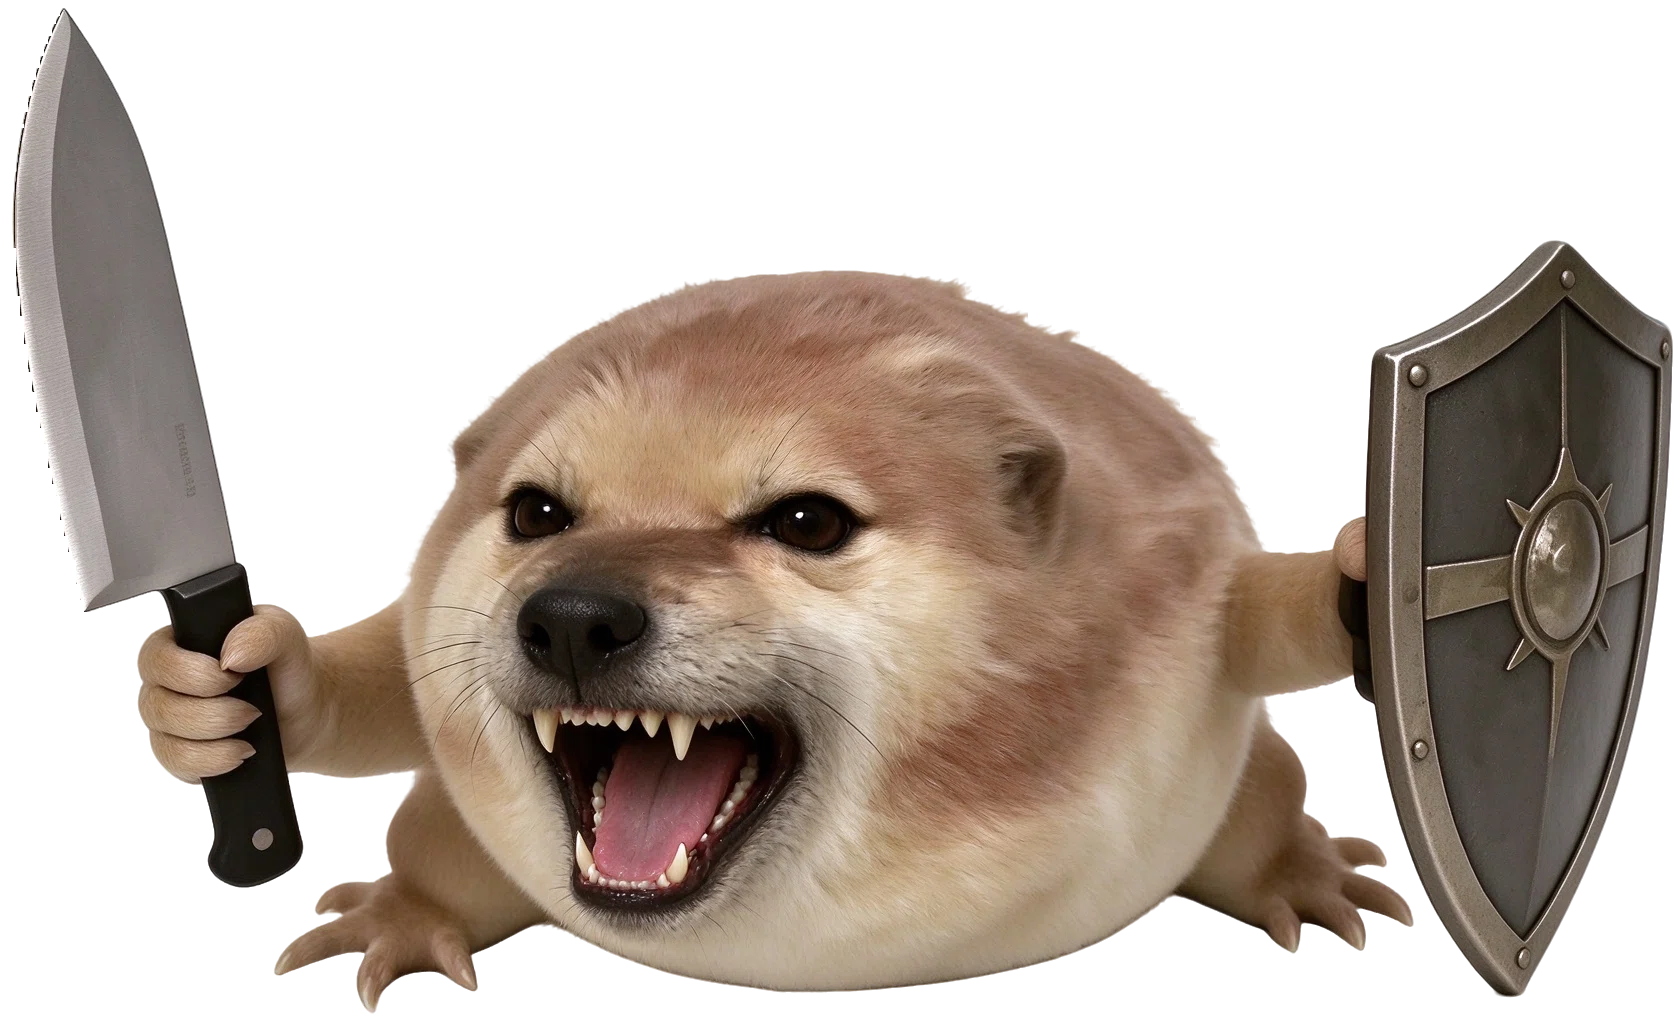
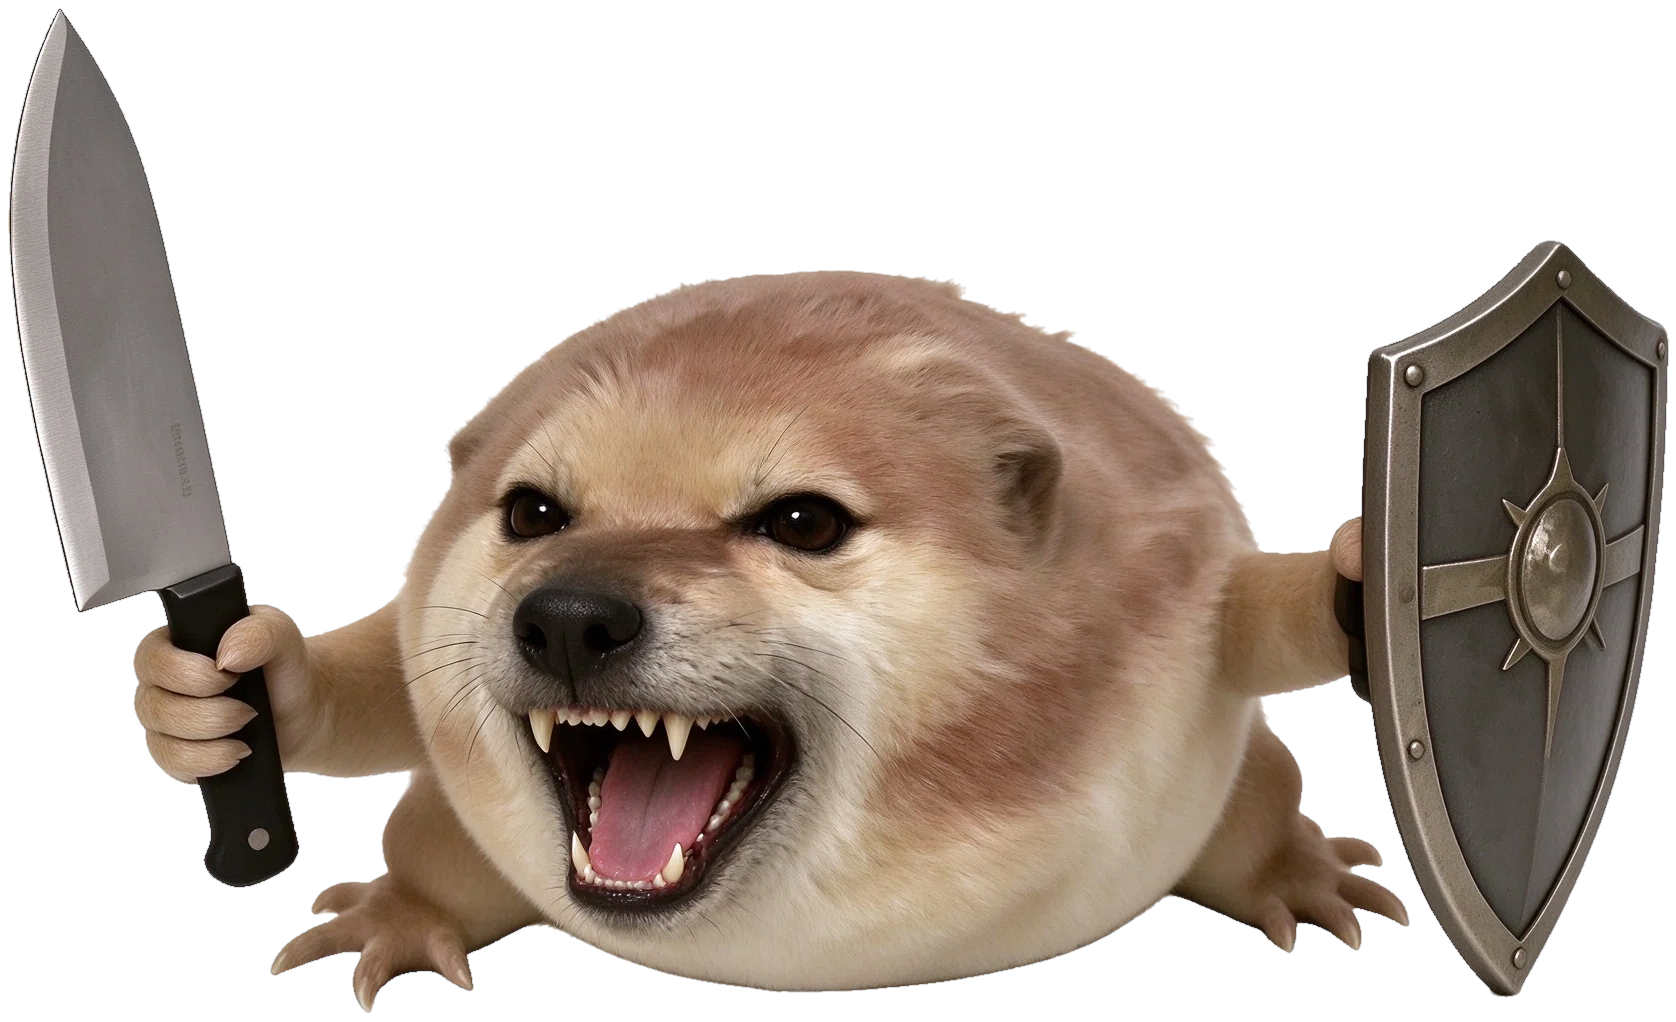
fix: 抠图改全分辨率+去白边；feat: 叫声期间底图左右摇晃，结束前 0.3s 归位

diff --git a/replica/js/hero-canvas.js b/replica/js/hero-canvas.js
@@ -215,6 +215,9 @@ export async function createHeroCanvas(canvas, cfg = {}, assets = {}) {
 
   let base, helmet, wire;
   let baseUrl = '';
+  // 左右摇晃：只作用于底图，结束前 300ms 归位
+  const shake = { rot: 0, active: false, start: 0, dur: 0, amp: 0.030, period: 760 };
+
   // 挤压/拉伸：只作用于底图，背景不受影响
   const squash = { x: 1, y: 1, active: false, start: 0, dur: 0 };
   const SQUASH_KEYS = [
@@ -314,7 +317,7 @@ export async function createHeroCanvas(canvas, cfg = {}, assets = {}) {
     gl.clear(gl.COLOR_BUFFER_BIT);
     gl.bindVertexArray(vao);
 
-    const drawLayer = (prog, texInfo, conf, frag, alpha = 1, sqY = 1, sqX = 1) => {
+    const drawLayer = (prog, texInfo, conf, frag, alpha = 1, sqY = 1, sqX = 1, rot = 0) => {
       gl.useProgram(prog);
       gl.enableVertexAttribArray(gl.getAttribLocation(prog, 'aPos'));
       gl.vertexAttribPointer(gl.getAttribLocation(prog, 'aPos'), 2, gl.FLOAT, false, 0, 0);
@@ -324,6 +327,7 @@ export async function createHeroCanvas(canvas, cfg = {}, assets = {}) {
       const sy = (wFrac * cw / (texInfo.w / texInfo.h)) / ch;
 
       gl.uniform2f(loc(prog, 'uScale'), sx * sqX, sy * sqY);
+      gl.uniform1f(loc(prog, 'uRot'), rot);
       // 统一标尺：x/y 都按画布宽度换算，改窗口大小时三层一起缩放，永不散位
       gl.uniform2f(loc(prog, 'uOffset'),
         ((conf.x ?? 0) * unitPx) / cw,
@@ -346,6 +350,20 @@ export async function createHeroCanvas(canvas, cfg = {}, assets = {}) {
     // width：以画布宽度为标尺（默认，构图随窗口等比缩放）
     // contain：以能放进窗口的最大 16:10 舞台为标尺
     const unitPx = (cfg.stage?.mode === 'contain') ? stageW : cw;
+
+    // 摇晃动画（仅底图）：最后 300ms 内幅度衰减到 0
+    if (shake.active) {
+      const el = performance.now() - shake.start;
+      if (el > shake.dur) {
+        shake.active = false;
+        shake.rot = 0;
+      } else {
+        const fade = Math.min(1, Math.max(0, (shake.dur - el) / 300));
+        shake.rot = Math.sin((el / shake.period) * Math.PI * 2) * shake.amp * fade;
+      }
+    } else if (shake.rot !== 0) {
+      shake.rot = 0;
+    }
 
     // 挤压动画（仅底图）
     if (squash.active) {
@@ -397,7 +415,7 @@ export async function createHeroCanvas(canvas, cfg = {}, assets = {}) {
       gl.drawArrays(gl.TRIANGLE_STRIP, 0, 4);
     }
 
-    drawLayer(progBase, base, layout.base || { w: 0.66, y: -0.16 }, null, opac.base ?? 1, squash.y, squash.x);
+    drawLayer(progBase, base, layout.base || { w: 0.66, y: -0.16 }, null, opac.base ?? 1, squash.y, squash.x, shake.rot);
 
     drawLayer(progHelmet, helmet, layout.helmet || { w: 0.3, y: 0.2 }, (p) => {
       gl.uniform2f(loc(p, 'uRes'), cw, ch);
@@ -457,6 +475,17 @@ export async function createHeroCanvas(canvas, cfg = {}, assets = {}) {
       squash.active = true;
       squash.start = performance.now();
       squash.dur = ms;
+    },
+    startShake(ms = 0, amp = 0.030) {
+      shake.active = true;
+      shake.start = performance.now();
+      shake.dur = ms;
+      shake.amp = amp;
+    },
+    stopShake() {
+      shake.active = false;
+      shake.rot = 0;
+      render();
     },
     stopSquash() {
       squash.active = false;

diff --git a/replica/js/main.js b/replica/js/main.js
@@ -399,6 +399,7 @@ function initBark() {
     setLayers(false);
     if (getHero()?.setBase) getHero().setBase(baseSrc);
     getHero()?.stopSquash?.();
+    getHero()?.stopShake?.();
   }
 
   function play(kind) {
@@ -410,6 +411,13 @@ function initBark() {
     document.body.classList.add(kind === 'bark' ? 'is-barking' : 'is-knife');
     setLayers(true);
     if (kind === 'bark' && getHero()?.setBase) getHero().setBase(barkSrc);
+    if (kind === 'bark') {
+      // 时长未知时先用兜底值，音频拿到 metadata 后再校正
+      const ms = cache.bark && isFinite(cache.bark.duration) && cache.bark.duration > 0
+        ? cache.bark.duration * 1000
+        : FALLBACK_MS - 300;
+      getHero()?.startShake?.(ms);
+    }
     if (kind === 'knife') getHero()?.startSquash?.();
 
     // 先挂兜底定时器，再播音频（音频被拒也不会一直不回位）

diff --git a/tools/cutout-white.py b/tools/cutout-white.py
@@ -1,10 +1,14 @@
 """
-cutout-white.py — 白底照片抠成透明 PNG（保留浅色毛发）
+cutout-white.py — 白底照片抠成透明 PNG（全分辨率、无块状边缘）
 
-做法：把"接近白"的区域降采样后从边界做连通域泛洪，只有与边界连通的白色才算背景，
-      所以狗身上被包围的浅色毛发不会被误当背景。
+之前的版本把掩膜降采样 1/4 再 NEAREST 放大，轮廓会留下 4px 的白色方块。
+现在改成：
+  1. 全分辨率连通域泛洪（只认与画面边界相连的白色）
+  2. alpha 向内收 1px，去掉轮廓上的白边
+  3. 对半透明像素做「去白」还原：rgb' = (rgb - (1-a)*255) / a
+     这样边缘残留的白色不会在深色背景上显出来
 
-用法: python cutout-white.py <源图> <输出> [白阈值 0-255] [裁剪边距]
+用法: python cutout-white.py <源图> <输出> [白阈值 0-255] [内收像素]
 """
 import sys
 from collections import deque
@@ -13,67 +17,69 @@ import numpy as np
 from PIL import Image, ImageFilter
 
 src, dst = sys.argv[1], sys.argv[2]
-th = int(sys.argv[3]) if len(sys.argv) > 3 else 244
-pad = int(sys.argv[4]) if len(sys.argv) > 4 else 8
-DOWN = 4
+th = int(sys.argv[3]) if len(sys.argv) > 3 else 246
+shrink = int(sys.argv[4]) if len(sys.argv) > 4 else 1
+pad = 8
 
 im = Image.open(src).convert("RGBA")
 flat = Image.new("RGB", im.size, (255, 255, 255))
 flat.paste(im, (0, 0), im.split()[-1])
 w, h = flat.size
 
-g = np.asarray(flat.convert("L"))
-white = g >= th
+rgb = np.asarray(flat, dtype=np.float32)
+gray = np.asarray(flat.convert("L"))
 
-# ---- 降采样后从边界泛洪 ----
-sw, sh = w // DOWN, h // DOWN
-small = white[: sh * DOWN, : sw * DOWN].reshape(sh, DOWN, sw, DOWN).max(axis=(1, 3))
+white = (gray >= th)
+print("近白像素 %.3f" % float(white.mean()))
 
-bg = np.zeros((sh, sw), dtype=bool)
+# ---- 全分辨率泛洪：只把与边界连通的白色算背景 ----
+bg = np.zeros((h, w), dtype=bool)
 q = deque()
-for x in range(sw):
-    for y in (0, sh - 1):
-        if small[y, x] and not bg[y, x]:
-            bg[y, x] = True
-            q.append((y, x))
-for y in range(sh):
-    for x in (0, sw - 1):
-        if small[y, x] and not bg[y, x]:
-            bg[y, x] = True
-            q.append((y, x))
+
+def push(y, x):
+    if 0 <= y < h and 0 <= x < w and white[y, x] and not bg[y, x]:
+        bg[y, x] = True
+        q.append((y, x))
+
+for x in range(w):
+    push(0, x)
+    push(h - 1, x)
+for y in range(h):
+    push(y, 0)
+    push(y, w - 1)
 
 while q:
     y, x = q.popleft()
-    for dy, dx in ((1, 0), (-1, 0), (0, 1), (0, -1)):
-        ny, nx = y + dy, x + dx
-        if 0 <= ny < sh and 0 <= nx < sw and small[ny, nx] and not bg[ny, nx]:
-            bg[ny, nx] = True
-            q.append((ny, nx))
+    push(y - 1, x)
+    push(y + 1, x)
+    push(y, x - 1)
+    push(y, x + 1)
 
-print("background ratio: %.3f" % float(bg.mean()))
+print("背景占比 %.3f" % float(bg.mean()))
 
-# ---- 升回原尺寸 + 羽化 ----
-bg_img = Image.fromarray((bg * 255).astype(np.uint8), "L").resize((w, h), Image.NEAREST)
-bg_img = bg_img.filter(ImageFilter.MaxFilter(3))          # 稍微咬一点边，去掉白边
-alpha_img = Image.fromarray((255 - np.asarray(bg_img)).astype(np.uint8), "L")
-alpha_img = alpha_img.filter(ImageFilter.GaussianBlur(1.0))
-alpha = np.asarray(alpha_img, dtype=np.float32) / 255.0
+# ---- alpha：背景 0，主体 1；再向内收一点去掉白边 ----
+alpha = np.where(bg, 0, 255).astype(np.uint8)
+a_img = Image.fromarray(alpha, "L")
+if shrink > 0:
+    a_img = a_img.filter(ImageFilter.MinFilter(shrink * 2 + 1))   # 内收
+a_img = a_img.filter(ImageFilter.GaussianBlur(0.6))               # 轻微羽化
+a = np.asarray(a_img, dtype=np.float32) / 255.0
 
-# 主体内部强制不透明
-inner = bg_img.filter(ImageFilter.MinFilter(11))
-keep = 1.0 - np.asarray(inner, dtype=np.float32) / 255.0
-alpha = np.clip(np.maximum(alpha, keep), 0, 1)
+# ---- 去白：半透明像素把混入的白色减掉 ----
+safe = np.maximum(a, 1e-3)[..., None]
+rgb_fixed = (rgb - (1.0 - a)[..., None] * 255.0) / safe
+rgb_fixed = np.clip(rgb_fixed, 0, 255)
 
 out = np.zeros((h, w, 4), dtype=np.uint8)
-out[..., 0:3] = np.asarray(flat)
-out[..., 3] = (alpha * 255).astype(np.uint8)
+out[..., 0:3] = rgb_fixed.astype(np.uint8)
+out[..., 3] = (a * 255).astype(np.uint8)
 
 img = Image.fromarray(out, "RGBA")
-bbox = img.split()[-1].point(lambda v: 255 if v > 12 else 0).getbbox()
+bbox = img.split()[-1].point(lambda v: 255 if v > 10 else 0).getbbox()
 if bbox:
     x0, y0, x1, y1 = bbox
     img = img.crop((max(0, x0 - pad), max(0, y0 - pad), min(w, x1 + pad), min(h, y1 + pad)))
 
 img.save(dst, "PNG", optimize=True)
 print("cutout ->", dst, img.size, "aspect=%.3f" % (img.width / img.height),
-      "coverage=%.3f" % float((alpha > 0.5).mean()))
+      "coverage=%.3f" % float((a > 0.5).mean()))
